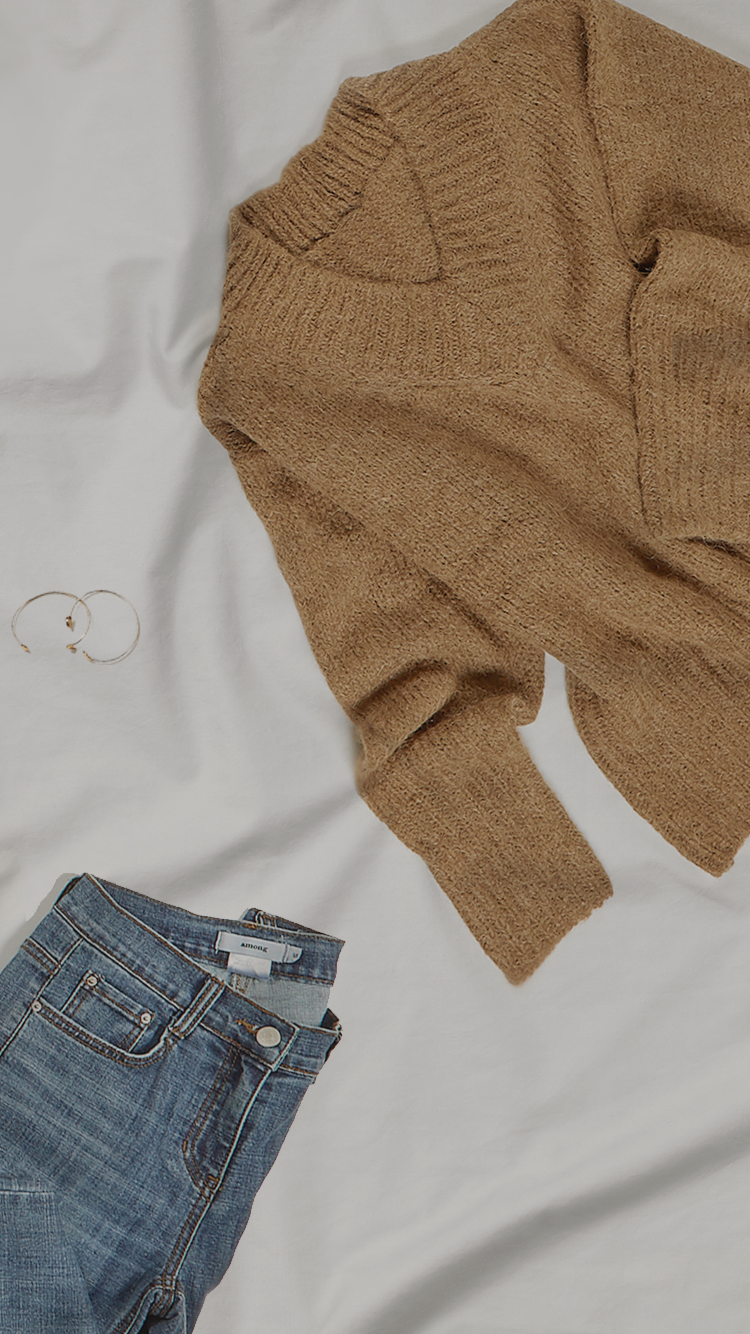
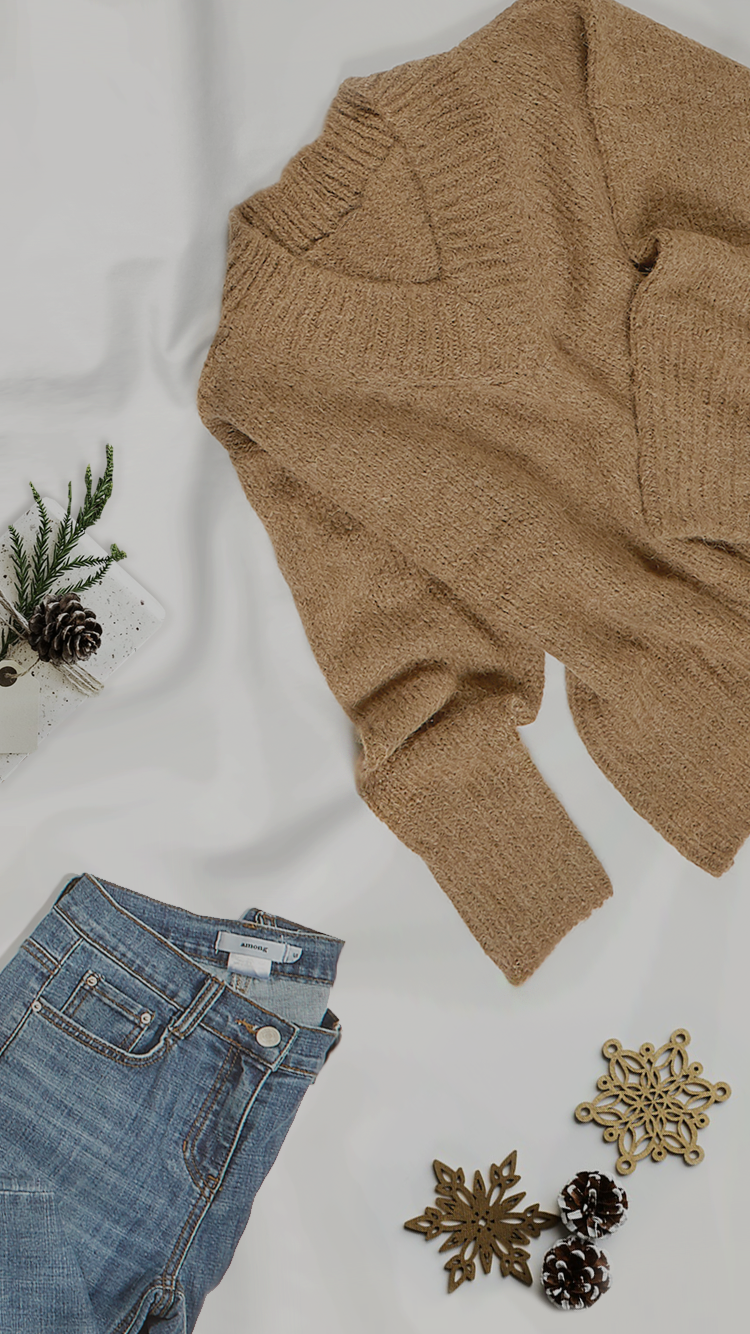
기타 - [x] 메인이미지 변경 - [x] 라우터 디테일하게 변경

diff --git a/src/router/index.js b/src/router/index.js
@@ -50,9 +50,10 @@ const router = new Router({
     {
       path: '/join',
       component: () => import('@/views/Join.vue'),
+      redirect: '/join/size',
       children: [
         {
-          path: '',
+          path: 'size',
           component: () => import('@/components/join/Size'),
           name: 'Join_Size'
         },
@@ -82,6 +83,7 @@ const router = new Router({
       path: '/closet',
       component: () => import('@/views/Closet.vue'),
       name: 'Closet',
+      redirect: '/closet/tomorrow',
       children: [
         {
           // 내일의 옷장

diff --git a/src/components/closet/SubscribeInfo/Information.vue b/src/components/closet/SubscribeInfo/Information.vue
@@ -69,7 +69,6 @@
               </tbody>
             </table>
             <!-- Desktop용 Table -->
-
             <table v-else>
               <thead>
                 <th>배송/회수 예정일</th>
